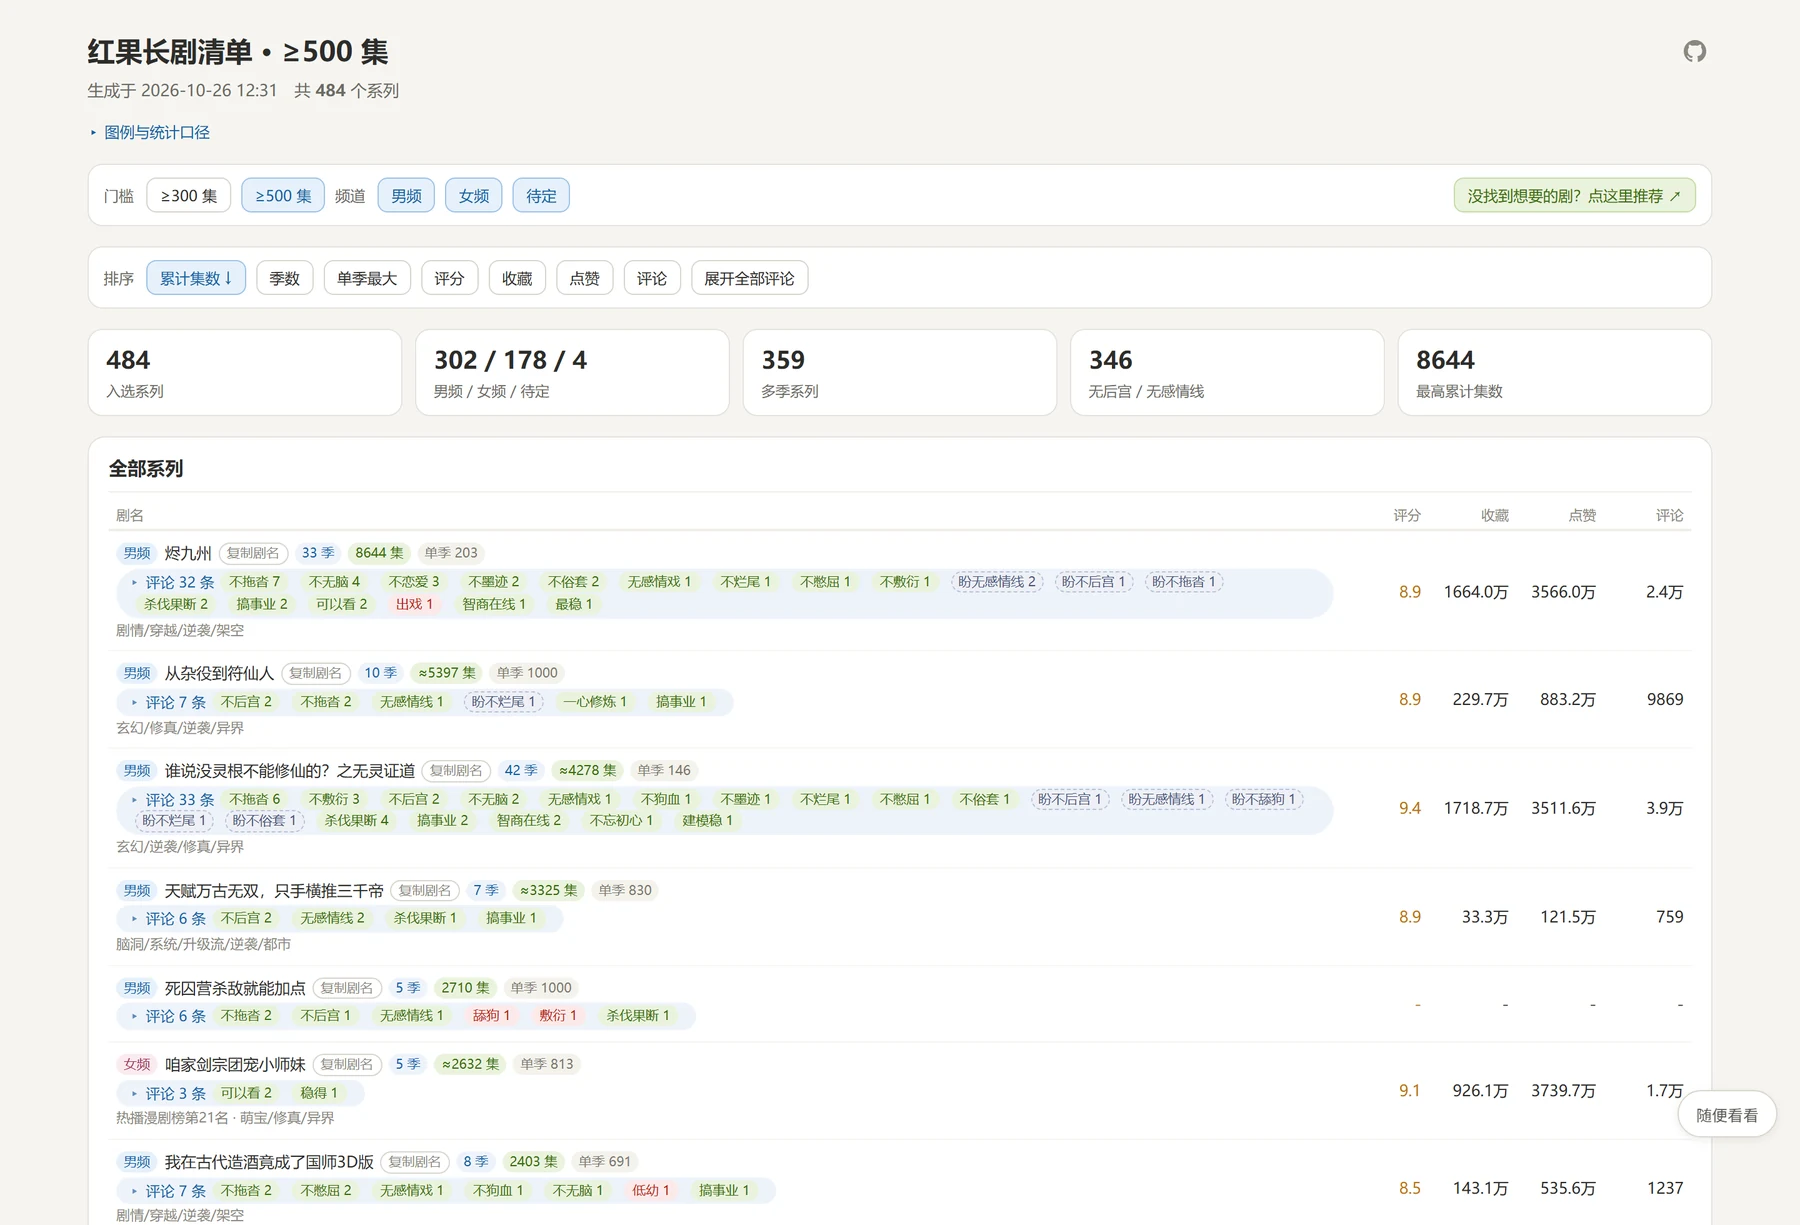
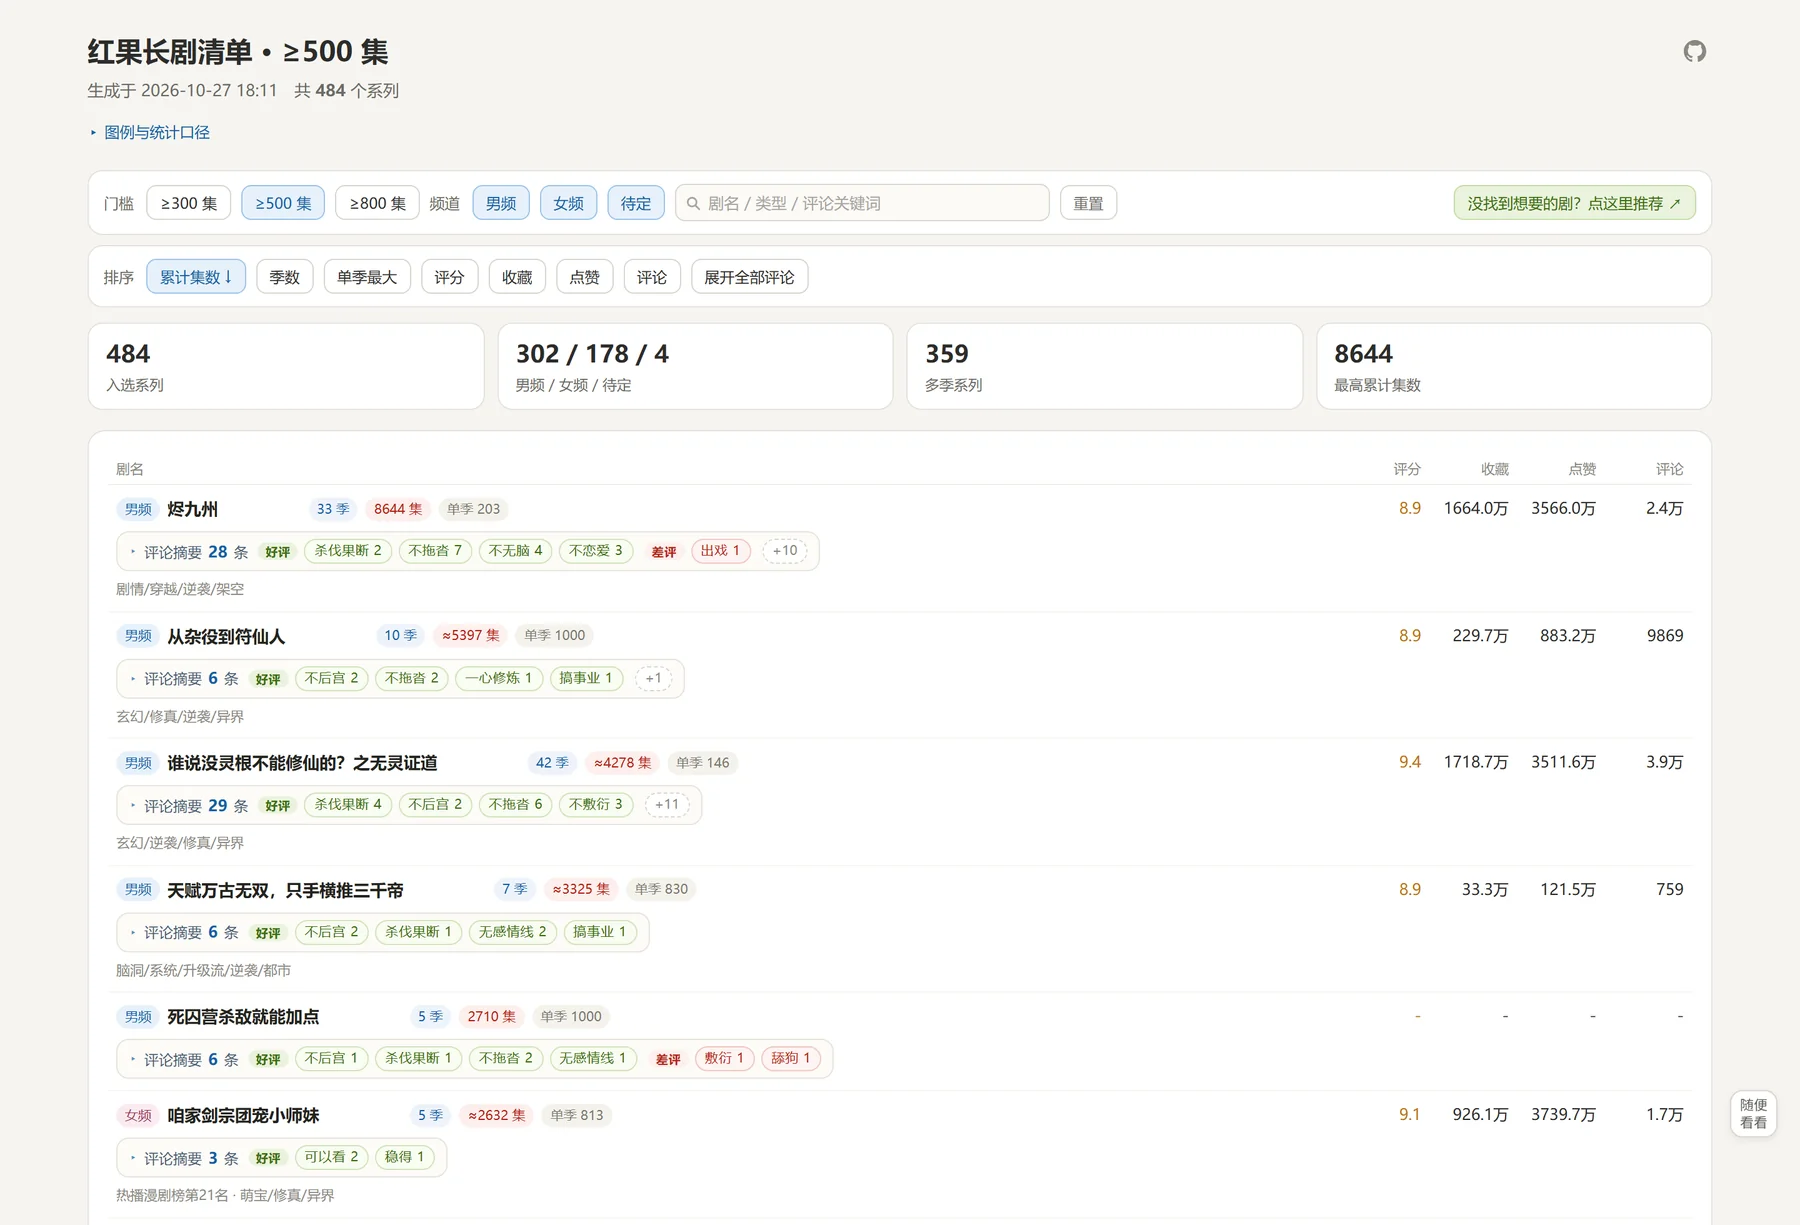
docs(post): 换成当前版截图，补搜索、深链与两档标签
问题：文章里 4 张截图还是旧版页面（两级门槛、三类标签、无搜索框），描述的功能也已过期。

改动：重拍 5 张（新增 desktop-search：搜「不拖沓」149 部），正文按当前页面改写——三级门槛（963/484/210）、搜索与重置、展开全部评论、标签两档（期望档已并入）、?name= 深链定位、6 部剧挂定位链；关键词 TOP 表重算后与原值一致，未改。

验证：hugo 0.168.0 extended 构建通过，319 条内链 0 死链；浏览器实测 5 图全部载入、深链（原文/编码/#hash 三种写法）都能定位并自动展开评论。

diff --git a/content/posts/2026-10-26-hongguo-short-drama-recommend.md b/content/posts/2026-10-26-hongguo-short-drama-recommend.md
@@ -4,8 +4,8 @@ date: 2026-10-26
 slug: "hongguo-short-drama-recommend"
 categories: ["推荐"]
 tags: ["红果", "短剧", "网站", "片单", "选剧"]
-description: "我整理的红果长剧清单网站：963 部（≥300 集）/ 484 部（≥500 集），可排序、可筛选，评论关键词绿红分区、差评优先，缺剧可以直接去 GitHub 提 issue 补录。"
-summary: "我整理的红果长剧清单网站：963 部（≥300 集）/ 484 部（≥500 集），可排序、可筛选，评论关键词绿红分区、差评优先，缺剧可以直接去 GitHub 提 issue 补录。"
+description: "我整理的红果长剧清单网站：963 部（≥300 集）/ 484 部（≥500 集）/ 210 部（≥800 集），能搜、能筛、能排序；好评差评分两档摆、差评优先；每部剧都能用链接直接定位，缺剧可以去 GitHub 提 issue 补录。"
+summary: "我整理的红果长剧清单网站：963 部（≥300 集）/ 484 部（≥500 集）/ 210 部（≥800 集），能搜、能筛、能排序；好评差评分两档摆、差评优先；每部剧都能用链接直接定位，缺剧可以去 GitHub 提 issue 补录。"
 image: ""
 draft: false
 ---
@@ -14,11 +14,11 @@ draft: false
 
 > **红果长剧清单**：[https://11os.github.io/hongguo-longdrama-list/](https://11os.github.io/hongguo-longdrama-list/)
 
-在红果里找剧刷，最烦的是首页推荐位：你看得越多，它推得越像。这个网站解决的就是这件事——把红果上累计集数够长的剧全部拉出来，做成一张**能自己排序、自己筛选**的表。不用登录，纯静态页面，打开就能用。
+在红果里找剧刷，最烦的是首页推荐位：你看得越多，它推得越像。这个网站解决的就是这件事——把红果上累计集数够长的剧全部拉出来，做成一张**能自己搜、自己筛、自己排序**的表。不用登录，纯静态页面，打开就能用。
 
-![桌面端打开红果长剧清单：门槛与频道筛选、排序按钮，以及每部剧名字后面的口碑关键词标签](/img/hongguo-list/desktop-top.webp)
+![桌面端打开红果长剧清单：门槛与频道筛选、搜索框、排序按钮，以及每部剧名字后面的口碑关键词标签](/img/hongguo-list/desktop-top.webp)
 
-*桌面端首屏：上面是门槛（≥300 / ≥500 集）、频道（男频 / 女频 / 待定）和七个排序键；下面每行是剧名、规模、口碑关键词标签和各季合计的数据。*
+*桌面端首屏：第一排是门槛（≥300 / ≥500 / ≥800 集）、频道（男频 / 女频 / 待定）、搜索框和重置；第二排是七个排序键加「展开全部评论」；下面是四张统计卡，再往下每行是剧名、规模、题材、口碑标签和评分收藏点赞评论数。*
 
 ## 网站上有什么
 
@@ -26,34 +26,50 @@ draft: false
 
 累计集数、季数、单季最大集数、评分、收藏、点赞、评论数，全都能排。想找「评分最高的长篇」，点「评分」列；想找「量大的」，点「累计集数」列。**不用再一路刷推荐位碰运气。**
 
-### 2. 两级门槛 + 频道筛选
+排序按钮右边还有个「展开全部评论」：点一下把当前筛选结果里所有剧的评论抽屉一起打开，再点一下（变成「收起全部评论」）全收回去。想快速扫一遍差评关键词时用这个，比一部一部点快得多。
 
-- **门槛**：≥300 集（963 部）/ ≥500 集（484 部）
+### 2. 三级门槛 + 频道 + 搜索
+
+- **门槛**：≥300 集（963 部）/ ≥500 集（484 部）/ ≥800 集（210 部）
 - **频道**：男频 / 女频 / 待定
+- **搜索**：剧名、类型、评论关键词都能搜，空格分隔多个词是「同时满足」
 
-（本文数据对应 2026-10-26 12:31 生成的页面。≥500 集口径下：484 部，男频 302 / 女频 178 / 待定 4，其中多季系列 359 部，最长的一部累计 8644 集。）
+搜索是这一版新加的，也是最省事的入口。比如在搜索框里敲「不拖沓」，≥500 集口径下只剩 149 部；再敲成「不拖沓 不后宫」，只剩 33 部——两个词要同时被评论提到。标题会跟着变（`红果长剧清单 · ≥500 集 · 不拖沓`），顶上的统计卡也一起重算。
+
+搜错了点输入框右边的 ✕ 清空；点「重置」把门槛、频道、排序、搜索一起回到初始（≥500 集 / 全部频道 / 累计集数降序）。
+
+![搜索「不拖沓」：≥500 集口径下 149 部，标题和统计卡同步变化](/img/hongguo-list/desktop-search.webp)
+
+*桌面端搜索「不拖沓」：标题变成「≥500 集 · 不拖沓」，统计卡从 484 变成 149（男 103 / 女 46 / 待定 0），标签里的「不拖沓」全部高亮。*
+
+（本文数据对应 2026-10-27 18:11 生成的页面。≥500 集口径下：484 部，男频 302 / 女频 178 / 待定 4，其中多季系列 359 部，最长的一部累计 8644 集。）
 
 ### 3. 看评论避坑——这是最有用的一块
 
-每部剧名字后面挂着一串从观众评论里提炼的**关键词标签**，分三类：
+每部剧名字后面挂着一串从观众评论里提炼的**关键词标签**，分两档：
 
 | 颜色 | 含义 | 例子 |
 |---|---|---|
-| 绿色 | 事实性好评 | 不拖沓、杀伐果断、搞事业 |
+| 绿色 | 事实性好评 | 不拖沓、杀伐果断、搞事业、不恋爱 |
 | 红色 | 肯定式差评 | 后宫、圣母、狗血、拖沓 |
-| 灰色虚线 | 期望（是愿望，不是事实） | 盼无感情线、盼不后宫 |
 
-点「评论」还能展开具体评论片段，**差评排在前面**——先让你看到缺点，再决定要不要花几十、上百小时。命中词会高亮，片段底色也区分好评（浅绿）/ 差评（浅红）/ 褒贬都有（橙色）/ 期望（蓝灰）。
+每档默认只露前几个，后面挂一个「+N」，点开看全部，再点「收起标签」收拢——一部剧的标签能有三四十个，全铺开就没法扫了。
 
-![点开「评论」展开的片段列表：差评排在前面，命中词高亮](/img/hongguo-list/desktop-comments.webp)
+想细看就点「评论摘要 N 条」，抽屉里是一条条从评论里截出来的原话，**差评排在前面**——先让你看到缺点，再决定要不要花几十、上百小时。命中词会高亮，片段左边的色条区分差评（浅红）/ 好评（浅绿）/ 褒贬都有（橙）。
 
-*点「评论」展开就是这样（图里是《持械入宋》）：粉色的「出戏」「憋屈」排在最前面，绿色的是好评，命中词全部高亮。*
+![点开「评论摘要」展开的片段列表：差评排在前面，命中词高亮](/img/hongguo-list/desktop-comments.webp)
+
+*点开「评论摘要 18 条」就是这样（图里是《持械入宋》）：红色的「出戏」「憋屈」排在最前面、左边是红条；往下的好评是绿条，命中词全部高亮，底部「收起评论」收回去。*
 
 判断规则很简单：**你想看的剧，看它标签里有没有密集的「舔狗」「绿茶」「憋屈」；有就跳过。** 这比看评分快得多。
 
-### 4. 复制剧名 + 随便看看
+### 4. 复制剧名 + 链接定位 + 随便看看
 
-每行有个「复制剧名」按钮（点一下会变成「已复制」），复制完去红果 App 里搜。右下角那个「随便看看」是在当前筛选结果里随机挑一部、滚过去闪一下——不知道看什么的时候用。
+每行有个「复制剧名」按钮，点一下剪贴板里就有剧名（1.4 秒内显示「已复制」），复制完去红果 App 里搜。
+
+想直接把某部剧发给别人，用链接：`https://11os.github.io/hongguo-longdrama-list/?name=持械入宋`。打开就滚到那一行、高亮、并自动展开它的评论——即使它不在当前门槛里，门槛 / 频道 / 搜索也会自动放开（写成 `#剧名` 也行）。
+
+右下角那个「随便看看」是在当前筛选结果里随机挑一部、滚过去闪一下——不知道看什么的时候用。
 
 **网站只负责筛，播放还是在红果。**
 
@@ -61,13 +77,13 @@ draft: false
 
 响应式布局，手机浏览器直接打开就是完整功能，不用装 App，也不用横过来缩放。
 
-![手机端打开红果长剧清单：门槛、频道、排序变成竖排按钮](/img/hongguo-list/mobile-top.webp)
+![手机端打开红果长剧清单：搜索框整行铺开，门槛频道排序收进一条摘要条](/img/hongguo-list/mobile-top.webp)
 
-*手机端首屏（390px 宽）：门槛、频道、排序自动变成竖排，统计卡片两列，剧名和关键词自动换行。*
+*手机端首屏（390px 宽）：搜索框整行铺开；门槛、频道、排序收进一条「筛选与排序」摘要条（默认显示 `≥500集 · 全部频道 · 累计集数`，点开才展开）；统计卡两列，「复制剧名」直接露在剧名旁边。*
 
-![手机端展开评论片段：一条条换行显示，命中词照样高亮](/img/hongguo-list/mobile-comments.webp)
+![手机端展开评论摘要：整行铺满，差评仍然排在前面](/img/hongguo-list/mobile-comments.webp)
 
-*手机端展开「评论」照样能看，片段一条条换行，命中词同样高亮。*
+*手机端展开「评论摘要 18 条」：抬头保留剧名和复制按钮，评论一条条铺满屏宽，差评还是第一步，命中词照样高亮。*
 
 ## 为什么它比推荐位好用
 
@@ -108,7 +124,9 @@ draft: false
 
 也就是说，观众现在判断一部短剧，不是看它多爽，而是看它**多不烦**。爽是基本盘，真正让人退出的往往是节奏慢、感情线乱、配角当工具人。
 
-期望类关键词（盼无感情线 52 部、盼不后宫 38 部、盼不恋爱 21 部）说的是同一件事：**观众会主动许愿，说明他们很清楚自己想看什么**，只是作品不总是给。能专心搞事业的主角，比会谈恋爱的主角更受欢迎。
+好评档里还有一串感情线指标——无感情线 85 部、不后宫 81 部、不恋爱 35 部、无感情戏 33 部（≥300 集口径）。**观众把「没有感情线」当成优点在夸，而不是当愿望在许**：能专心搞事业的主角，比会谈恋爱的更受欢迎。
+
+（早前站点单独列过一档「期望」标签，用灰色虚线标「盼无感情线」这类愿望；这一版已把它并进好评 / 差评两档，本文的关键词统计也按两档重算过。）
 
 ## 缺剧、错漏，欢迎来补
 
@@ -124,19 +142,21 @@ draft: false
 
 ## 顺手列几部，别当榜单看
 
-下面几部只是从当前数据里随手挑的示例，**不是推荐榜单**，也不挂链接（剧名复制去红果 App 搜就行）。想看更多，自己上网站按评分或关键词排，比看我这几行靠谱：
+下面几部只是从当前数据里随手挑的示例，**不是推荐榜单**。剧名点进去是清单页的定位链接（会滚到那一行并展开评论），不是红果入口——红果那边没有可用的稳定深链，想看看还是复制剧名去 App 搜。想看更多，自己上网站按评分或关键词排，比看我这几行靠谱：
 
 | 剧名 | 评分 | 频道 | 规模 |
 |---|---|---|---|
-| 烬九州 | 8.9 | 男频 | 33 季 / 8644 集 |
-| 从杂役到符仙人 | 8.9 | 男频 | 10 季 / ≈5397 集 |
-| 谁说没灵根不能修仙的？之无灵证道 | 9.4 | 男频 | 42 季 / ≈4278 集 |
-| 持械入宋 | 9.0 | 男频 | 10 季 / 1575 集 |
-| 万妖图录传 | 9.4 | 女频 | 13 季 / 1410 集 |
-| 一梦青玄，团宠小师妹一剑毁天灭地 | 9.3 | 女频 | 7 季 / 1338 集 |
+| [烬九州](https://11os.github.io/hongguo-longdrama-list/?name=烬九州) | 8.9 | 男频 | 33 季 / 8644 集 |
+| [从杂役到符仙人](https://11os.github.io/hongguo-longdrama-list/?name=从杂役到符仙人) | 8.9 | 男频 | 10 季 / ≈5397 集 |
+| [谁说没灵根不能修仙的？之无灵证道](https://11os.github.io/hongguo-longdrama-list/?name=谁说没灵根不能修仙的？之无灵证道) | 9.4 | 男频 | 42 季 / ≈4278 集 |
+| [持械入宋](https://11os.github.io/hongguo-longdrama-list/?name=持械入宋) | 9.0 | 男频 | 10 季 / 1575 集 |
+| [万妖图录传](https://11os.github.io/hongguo-longdrama-list/?name=万妖图录传) | 9.4 | 女频 | 13 季 / 1410 集 |
+| [一梦青玄，团宠小师妹一剑毁天灭地](https://11os.github.io/hongguo-longdrama-list/?name=一梦青玄，团宠小师妹一剑毁天灭地) | 9.3 | 女频 | 7 季 / 1338 集 |
 
 ## 数据口径（避免误读）
 
+- **三条门槛是同一份数据的三种切法**：≥300 集 963 部 / ≥500 集 484 部 / ≥800 集 210 部；下文的关键词统计统一按 ≥300 集口径算。
+- **标签两档**：好评 / 差评都来自评论原文；「拖沓」「后宫」这类评价词在好评档里只以「不拖沓」「不后宫」的否定形式出现，所以两档不能直接相加。
 - **同名不同季已合并**：集数是系列累计，季数是已收录季数。
 - **评分取最高一季**：多季作品质量并不一致，看最高分会高估。
 - **收藏 / 点赞 / 评论为各季合计**。
